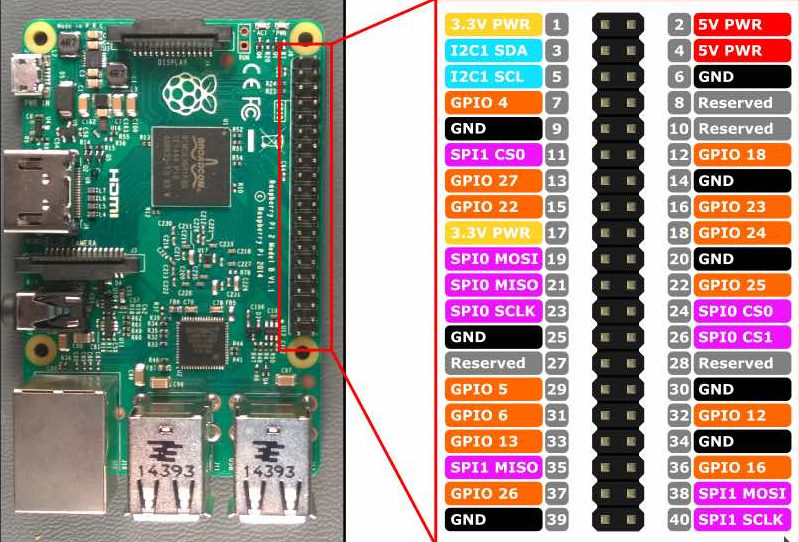
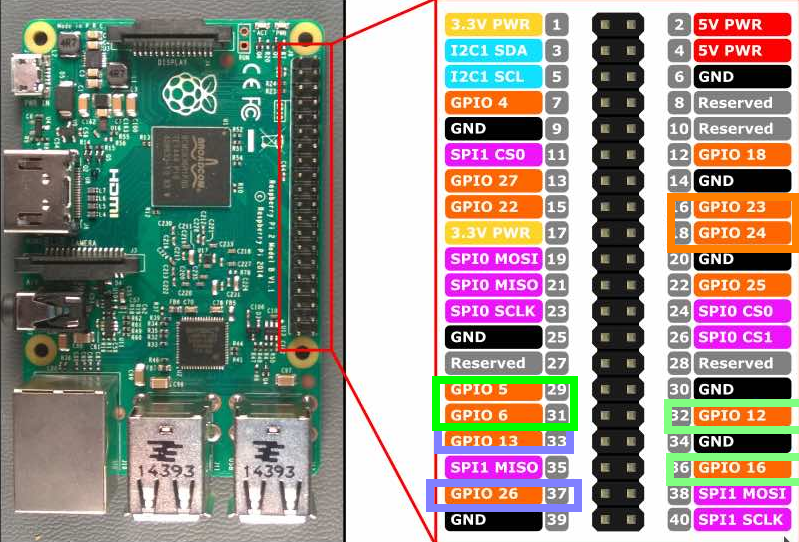
changes to improve rasp

diff --git a/robot_hardware/src/motorCode.cpp b/robot_hardware/src/motorCode.cpp
@@ -25,7 +25,11 @@ bool turnOnBaseMotor = false;
 void motor_cb(const std_msgs::Float64ConstPtr &msg, char &var)
 {
 
-    var = (char)msg->data;
+    double temp = abs( msg->data ) > 120 ? 120 * ( msg->data / fabs( msg->data ) ) : msg->data ;  
+
+    var = (char) temp;
+   // ROS_INFO_STREAM("Received: " << msg->data << " " << ( msg->data / fabs( msg->data )) << " Now: " << (int) var);
+    
 }
 
 int main(int argc, char *argv[])
@@ -51,6 +55,7 @@ int main(int argc, char *argv[])
 
         ros::spinOnce();
 
+        //ROS_INFO_STREAM( (int) vel[0] << " " << (int) vel[1] << " " << (int) vel[2] << " " << (int) vel[3] << " ");
         write(arduino.fd, vel, 4);
 
         rate.sleep();

diff --git a/robot_hardware/rasp/publishEncoder.cpp b/robot_hardware/rasp/publishEncoder.cpp
@@ -38,8 +38,8 @@ int main(int argc, char *argv[])
 
     re_decoder dec1(37,33); // GPIO 26 | GPIO 13
     re_decoder dec2(31, 29); // GPIO 6 | GPIO 5
-    re_decoder dec3(11, 12);
-    re_decoder dec4(13, 14);
+    re_decoder dec3(32, 36); // GPIO 12 | GPIO 16 
+    re_decoder dec4(16, 18); // GPIO 23| GPIO 24    
 
     //    sleep(1000);
 

diff --git a/robot_hardware/test/testar_movimento_base.cpp b/robot_hardware/test/testar_movimento_base.cpp
@@ -50,6 +50,8 @@ void keyboard_cb(const geometry_msgs::TwistConstPtr &vel)
     pubMotorFL.publish(Wfl);
     pubMotorBR.publish(Wbr);
     pubMotorBL.publish(Wbl);
+
+    /ROS_INFO_STREAM(" Wfr: " << Wfr <<" Wfl: " << Wfl <<" Wbr: "<< Wbr << " Wbl: "<< Wbl);
 }
 
 
